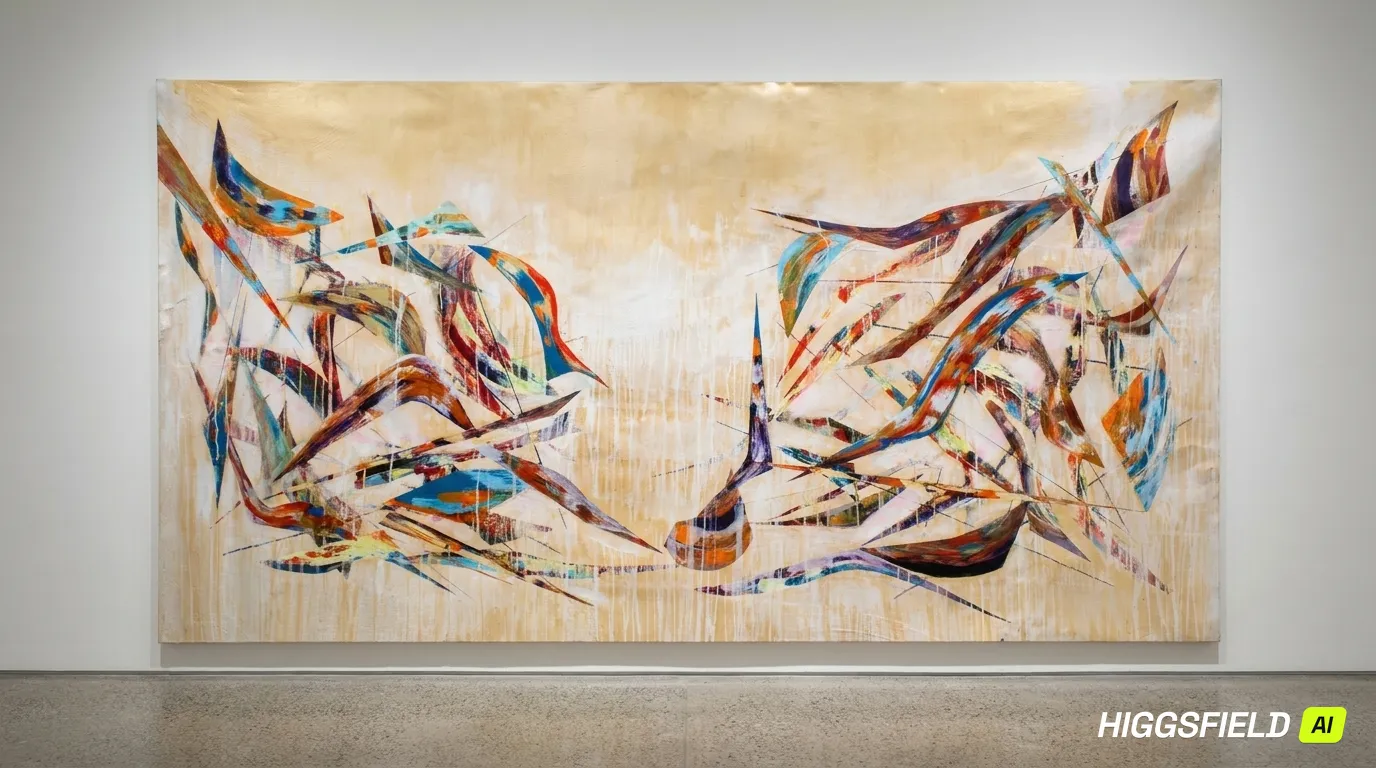
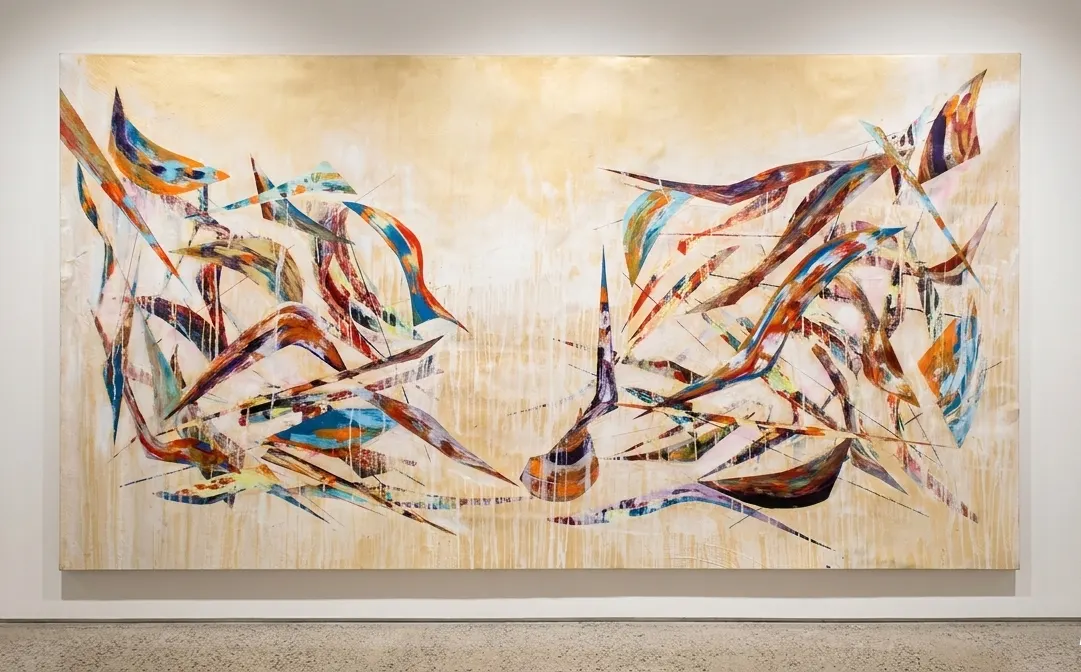
Swap Gift to the wall photo, drop Merged thumbs, hide Sinking Ship from Recent Works.

diff --git a/work/index.html b/work/index.html
@@ -27,7 +27,7 @@
     <section class="room" id="the-gift-of-an-abundant-life">
       <figure>
         <a href="/threeelementsofarefraction/#the-gift-of-an-abundant-life">
-          <picture><source type="image/webp" srcset="/images/display/the-gift-of-an-abundant-life-w1600.webp 1600w, /images/the-gift-of-an-abundant-life.webp 1376w" sizes="(max-width: 700px) 92vw, min(56rem, 80vw)"><img src="/images/the-gift-of-an-abundant-life.jpg" alt="The Gift of an Abundant Life" width="1376" height="768"></picture>
+          <picture><source type="image/webp" srcset="/images/display/the-gift-of-an-abundant-life-w1600.webp 1600w, /images/the-gift-of-an-abundant-life.webp 1081w" sizes="(max-width: 700px) 92vw, min(56rem, 80vw)"><img src="/images/the-gift-of-an-abundant-life.jpg" alt="The Gift of an Abundant Life" width="1081" height="672"></picture>
         </a>
         <figcaption class="caption"><em>The Gift of an Abundant Life</em><span>2026</span></figcaption>
       </figure>
@@ -64,20 +64,12 @@
         <figcaption class="caption"><em>What Remains Below</em><span>2026</span><div class="thumbs"><picture><source type="image/webp" srcset="/images/display/what-remains-below-gallery-1-w1600.webp 1600w, /images/what-remains-below-gallery-1.webp 2400w" sizes="4.5rem"><img src="/images/what-remains-below-gallery-1.jpg" alt="" loading="lazy"></picture></div></figcaption>
       </figure>
     </section>
-    <section class="room" id="sinking-ship">
-      <figure>
-        <a href="/showmeafeeling/#sinking-ship">
-          <picture><source type="image/webp" srcset="/images/display/IMG_1500-w1600.webp 1600w, /images/IMG_1500.webp 3475w" sizes="(max-width: 700px) 92vw, min(56rem, 80vw)"><img src="/images/IMG_1500.JPG" alt="Sinking Ship" width="3475" height="4187" loading="lazy"></picture>
-        </a>
-        <figcaption class="caption"><em>Sinking Ship</em><span>2025</span><div class="thumbs"><picture><source type="image/webp" srcset="/images/display/IMG_1510-w1600.webp 1600w" sizes="4.5rem"><img src="/images/IMG_1510.jpg" alt="" loading="lazy"></picture><picture><source type="image/webp" srcset="/images/display/IMG_1509-w1600.webp 1600w" sizes="4.5rem"><img src="/images/IMG_1509.jpg" alt="" loading="lazy"></picture><picture><source type="image/webp" srcset="/images/display/IMG_1496-w1600.webp 1600w" sizes="4.5rem"><img src="/images/IMG_1496.JPG" alt="" loading="lazy"></picture></div></figcaption>
-      </figure>
-    </section>
     <section class="room" id="cost-of-love">
       <figure>
         <a href="/threeelementsofarefraction/#cost-of-love">
           <picture><source type="image/webp" srcset="/images/display/cost-of-love-w1600.webp 1600w, /images/cost-of-love.webp 2630w" sizes="(max-width: 700px) 92vw, min(56rem, 80vw)"><img src="/images/cost-of-love.jpg" alt="Cost of Love" width="2630" height="3270" loading="lazy"></picture>
         </a>
-        <figcaption class="caption"><em>Cost of Love</em><span>2025</span><div class="thumbs"><picture><source type="image/webp" srcset="/images/display/cost-of-love-gallery-1-w1600.webp 1600w, /images/cost-of-love-gallery-1.webp 2400w" sizes="4.5rem"><img src="/images/cost-of-love-gallery-1.jpg" alt="" loading="lazy"></picture><picture><source type="image/webp" srcset="/images/display/cost-of-love-gallery-2-w1600.webp 1600w, /images/cost-of-love-gallery-2.webp 2400w" sizes="4.5rem"><img src="/images/cost-of-love-gallery-2.jpg" alt="" loading="lazy"></picture><picture><source type="image/webp" srcset="/images/display/install-view-01-w1600.webp 1600w, /images/install-view-01.webp 2400w" sizes="4.5rem"><img src="/images/install-view-01.jpg" alt="" loading="lazy"></picture><picture><source type="image/webp" srcset="/images/display/install-view-02-w1600.webp 1600w, /images/install-view-02.webp 2400w" sizes="4.5rem"><img src="/images/install-view-02.jpg" alt="" loading="lazy"></picture><picture><source type="image/webp" srcset="/images/display/install-view-03-w1600.webp 1600w, /images/install-view-03.webp 2400w" sizes="4.5rem"><img src="/images/install-view-03.jpg" alt="" loading="lazy"></picture></div></figcaption>
+        <figcaption class="caption"><em>Cost of Love</em><span>2025</span><div class="thumbs"><picture><source type="image/webp" srcset="/images/display/cost-of-love-gallery-1-w1600.webp 1600w, /images/cost-of-love-gallery-1.webp 2400w" sizes="4.5rem"><img src="/images/cost-of-love-gallery-1.jpg" alt="" loading="lazy"></picture><picture><source type="image/webp" srcset="/images/display/cost-of-love-gallery-2-w1600.webp 1600w, /images/cost-of-love-gallery-2.webp 2400w" sizes="4.5rem"><img src="/images/cost-of-love-gallery-2.jpg" alt="" loading="lazy"></picture></div></figcaption>
       </figure>
     </section>
     <section class="room" id="be-the-light">
@@ -85,7 +77,7 @@
         <a href="/threeelementsofarefraction/#be-the-light">
           <picture><source type="image/webp" srcset="/images/display/be-the-light-w1600.webp 1600w, /images/be-the-light.webp 1354w" sizes="(max-width: 700px) 92vw, min(56rem, 80vw)"><img src="/images/be-the-light.jpg" alt="Be the Light" width="1354" height="1784" loading="lazy"></picture>
         </a>
-        <figcaption class="caption"><em>Be the Light</em><span>2025</span><div class="thumbs"><picture><source type="image/webp" srcset="/images/display/be-the-light-gallery-1-w1600.webp 1600w, /images/be-the-light-gallery-1.webp 2400w" sizes="4.5rem"><img src="/images/be-the-light-gallery-1.jpg" alt="" loading="lazy"></picture><picture><source type="image/webp" srcset="/images/display/install-view-04-w1600.webp 1600w, /images/install-view-04.webp 2400w" sizes="4.5rem"><img src="/images/install-view-04.jpg" alt="" loading="lazy"></picture><picture><source type="image/webp" srcset="/images/display/install-view-05-w1600.webp 1600w, /images/install-view-05.webp 2400w" sizes="4.5rem"><img src="/images/install-view-05.jpg" alt="" loading="lazy"></picture><picture><source type="image/webp" srcset="/images/display/install-view-06-w1600.webp 1600w, /images/install-view-06.webp 2400w" sizes="4.5rem"><img src="/images/install-view-06.jpg" alt="" loading="lazy"></picture></div></figcaption>
+        <figcaption class="caption"><em>Be the Light</em><span>2025</span><div class="thumbs"><picture><source type="image/webp" srcset="/images/display/be-the-light-gallery-1-w1600.webp 1600w, /images/be-the-light-gallery-1.webp 2400w" sizes="4.5rem"><img src="/images/be-the-light-gallery-1.jpg" alt="" loading="lazy"></picture></div></figcaption>
       </figure>
     </section>
     <section class="room" id="all-the-ways-we-shine">
@@ -142,6 +134,14 @@
           <picture><source type="image/webp" srcset="/images/display/IMG_0233-w1600.webp 1600w, /images/IMG_0233.webp 1417w" sizes="(max-width: 700px) 92vw, min(56rem, 80vw)"><img src="/images/IMG_0233.JPG" alt="Rhythms and Reflections" width="1417" height="1921" loading="lazy"></picture>
         </a>
         <figcaption class="caption"><em>Rhythms and Reflections</em><span>2025</span></figcaption>
+      </figure>
+    </section>
+    <section class="room" id="red-thread">
+      <figure>
+        <a href="/showmeafeeling/#red-thread">
+          <picture><source type="image/webp" srcset="/images/display/09B53636-C040-4AA6-B269-FE1BE53BD0D2-w1600.webp 1600w, /images/09B53636-C040-4AA6-B269-FE1BE53BD0D2.webp 1440w" sizes="(max-width: 700px) 92vw, min(56rem, 80vw)"><img src="/images/09B53636-C040-4AA6-B269-FE1BE53BD0D2.JPG" alt="Red Thread" width="1440" height="1800" loading="lazy"></picture>
+        </a>
+        <figcaption class="caption"><em>Red Thread</em><span>2023</span></figcaption>
       </figure>
     </section>
     <div class="bodies">

diff --git a/threeelementsofarefraction/index.html b/threeelementsofarefraction/index.html
@@ -36,7 +36,7 @@
         <div data-lang="es"><h2>LOS TRES ELEMENTOS DE UNA REFRACCIÓN</h2><p class="by">Annie Ríos, 2025</p><p>Los Tres Elementos de una Refracción examina el encuentro de la luz con la materia como hecho óptico y desafío perceptual. Ríos aísla el proceso de tres etapas de la refracción—rayo incidente, punto de incidencia, rayo refractado—utilizándolo como marco estructural para un cuerpo de obra que cuestiona cómo la aceleración contemporánea ha disminuido nuestra capacidad de atención visual sostenida.</p><p>Las pinturas emplean aplanamiento cromático, una técnica en la que el acrílico se vierte y superpone en capas, permitiendo que los colores se fusionen de manera orgánica. Líneas blancas trazan la trayectoria de la luz mientras establecen divisiones geométricas. Este enfoque extiende las investigaciones sobre cómo los colores interactúan y se comportan materialmente, mientras reintroduce el gesto controlado. Los lienzos de gran formato exigen atención sostenida del espectador.</p><p>Trabajando desde Ciudad de Panamá, Ríos describe estas obras como "espacios íntimos para la introspección personal absoluta"—pinturas que exigen compromiso óptico en lugar de consumo pasivo.</p><p>El cuerpo de obra posiciona la abstracción no como alejamiento de la realidad observable sino como medio para documentarla. Estas son pinturas de algo que existe—la luz doblándose a través de la materia—insistiendo en que mirar deliberadamente podría recalibrar la percepción habitual.</p></div>
       </section>
       <article class="hang" id="the-gift-of-an-abundant-life">
-        <picture><source type="image/webp" srcset="/images/display/the-gift-of-an-abundant-life-w1600.webp 1600w, /images/the-gift-of-an-abundant-life.webp 1376w" sizes="(max-width: 800px) 92vw, min(72vw, 52rem)"><img src="/images/the-gift-of-an-abundant-life.jpg" alt="The Gift of an Abundant Life" width="1376" height="768"></picture>
+        <picture><source type="image/webp" srcset="/images/display/the-gift-of-an-abundant-life-w1600.webp 1600w, /images/the-gift-of-an-abundant-life.webp 1081w" sizes="(max-width: 800px) 92vw, min(72vw, 52rem)"><img src="/images/the-gift-of-an-abundant-life.jpg" alt="The Gift of an Abundant Life" width="1081" height="672"></picture>
         <div class="caption">
           <em data-lang="en">The Gift of an Abundant Life</em>
           <span class="line">2026; Acrylic on canvas, oak wood frame; 274 × 150 cm</span>
@@ -77,7 +77,7 @@
           <em data-lang="en">Cost of Love</em>
           <span class="line">2025; Acrylic on oakwood canvas; 198 × 144 cm</span>
           <a class="ask" href="/inquire/?work=Cost%20of%20Love">Inquire</a>
-          <div class="thumbs"><picture><source type="image/webp" srcset="/images/display/cost-of-love-gallery-1-w1600.webp 1600w, /images/cost-of-love-gallery-1.webp 2400w" sizes="4.5rem"><img src="/images/cost-of-love-gallery-1.jpg" alt="" loading="lazy"></picture><picture><source type="image/webp" srcset="/images/display/cost-of-love-gallery-2-w1600.webp 1600w, /images/cost-of-love-gallery-2.webp 2400w" sizes="4.5rem"><img src="/images/cost-of-love-gallery-2.jpg" alt="" loading="lazy"></picture><picture><source type="image/webp" srcset="/images/display/install-view-01-w1600.webp 1600w, /images/install-view-01.webp 2400w" sizes="4.5rem"><img src="/images/install-view-01.jpg" alt="" loading="lazy"></picture><picture><source type="image/webp" srcset="/images/display/install-view-02-w1600.webp 1600w, /images/install-view-02.webp 2400w" sizes="4.5rem"><img src="/images/install-view-02.jpg" alt="" loading="lazy"></picture><picture><source type="image/webp" srcset="/images/display/install-view-03-w1600.webp 1600w, /images/install-view-03.webp 2400w" sizes="4.5rem"><img src="/images/install-view-03.jpg" alt="" loading="lazy"></picture></div>
+          <div class="thumbs"><picture><source type="image/webp" srcset="/images/display/cost-of-love-gallery-1-w1600.webp 1600w, /images/cost-of-love-gallery-1.webp 2400w" sizes="4.5rem"><img src="/images/cost-of-love-gallery-1.jpg" alt="" loading="lazy"></picture><picture><source type="image/webp" srcset="/images/display/cost-of-love-gallery-2-w1600.webp 1600w, /images/cost-of-love-gallery-2.webp 2400w" sizes="4.5rem"><img src="/images/cost-of-love-gallery-2.jpg" alt="" loading="lazy"></picture></div>
         </div>
       </article>
       <article class="hang" id="be-the-light">
@@ -86,7 +86,7 @@
           <em data-lang="en">Be the Light</em>
           <span class="line">2025; Acrylic on canvas, oak wood frame; 150 × 189 cm</span>
           <a class="ask" href="/inquire/?work=Be%20the%20Light">Inquire</a>
-          <div class="thumbs"><picture><source type="image/webp" srcset="/images/display/be-the-light-gallery-1-w1600.webp 1600w, /images/be-the-light-gallery-1.webp 2400w" sizes="4.5rem"><img src="/images/be-the-light-gallery-1.jpg" alt="" loading="lazy"></picture><picture><source type="image/webp" srcset="/images/display/install-view-04-w1600.webp 1600w, /images/install-view-04.webp 2400w" sizes="4.5rem"><img src="/images/install-view-04.jpg" alt="" loading="lazy"></picture><picture><source type="image/webp" srcset="/images/display/install-view-05-w1600.webp 1600w, /images/install-view-05.webp 2400w" sizes="4.5rem"><img src="/images/install-view-05.jpg" alt="" loading="lazy"></picture><picture><source type="image/webp" srcset="/images/display/install-view-06-w1600.webp 1600w, /images/install-view-06.webp 2400w" sizes="4.5rem"><img src="/images/install-view-06.jpg" alt="" loading="lazy"></picture></div>
+          <div class="thumbs"><picture><source type="image/webp" srcset="/images/display/be-the-light-gallery-1-w1600.webp 1600w, /images/be-the-light-gallery-1.webp 2400w" sizes="4.5rem"><img src="/images/be-the-light-gallery-1.jpg" alt="" loading="lazy"></picture></div>
         </div>
       </article>
       <article class="hang" id="all-the-ways-we-shine">

diff --git a/MISSING_CONTENT.md b/MISSING_CONTENT.md
@@ -87,6 +87,10 @@ Public contact is **+34 622 907 643 (WhatsApp)**. The Panama number from the ear
 
 Improved photos from `/Downloads/Recent Works` replaced the main images for those works (old camera files such as `IMG_5377.JPG` were kept on disk). Gallery / install views were added as detail thumbs.
 
-`Merged/` folder shots are multi-work install views; they were attached as extra details on *Cost of Love* and *Be the Light*. Say if they should live elsewhere.
+`Merged/` multi-work install shots were removed from the site (too many works per frame). Per-work gallery views only.
+
+*Sinking Ship* is off Recent Works (still on Show Me a Feeling).
+
+*The Gift of an Abundant Life* main image is the wall view from Recent Works (`THE-GIFT-OF-AN-ABUNDANT-LIFE.png`).
 
 *The Sun In An Empty Room* was added from that folder (89 × 147 cm from the August 2026 catalogue).
